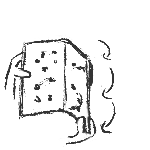
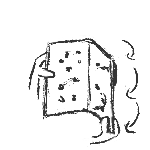
Scaffolded day 21. Small alignment in day 13 doodle.

diff --git a/src/tests/solutions/day21.spec.ts b/src/tests/solutions/day21.spec.ts
@@ -1,0 +1,22 @@
+import { Day21 } from '../../solutions';
+import { fixtureSetup } from '../testHelper';
+
+describe('Day21 solution', function () {
+    const { setupSolution, expectedResult } = fixtureSetup(Day21);
+
+    describe('for test input', function () {
+        beforeAll(setupSolution(`
+Player 1 starting position: 4
+Player 2 starting position: 8`));
+
+        it('solves part 1', expectedResult(1, '739785'));
+        xit('solves part 2', expectedResult(2, 'Day21Part2'));
+    });
+
+    describe('for puzzle input', function () {
+        beforeAll(setupSolution());
+
+        xit('solves part 1', expectedResult(1, 'Day21Part1'));
+        xit('solves part 2', expectedResult(2, 'Day21Part2'));
+    });
+});

diff --git a/src/solutions/day21.ts b/src/solutions/day21.ts
@@ -1,0 +1,17 @@
+import SolutionBase from '../core/solutionBase';
+import { solutionInfo } from '../core/solutionInfo';
+
+@solutionInfo({
+    day: 21,
+    title: 'Dirac Dice'
+})
+export class Day21 extends SolutionBase {
+
+    protected part1(): number {
+        this.noSolution();
+    }
+
+    protected part2(): string | number {
+        this.noSolution();
+    }
+}

diff --git a/src/solutions/index.ts b/src/solutions/index.ts
@@ -23,3 +23,4 @@ export * from './day18';
 export * from './day18_strings';
 export * from './day19';
 export * from './day20';
+export * from './day21';
